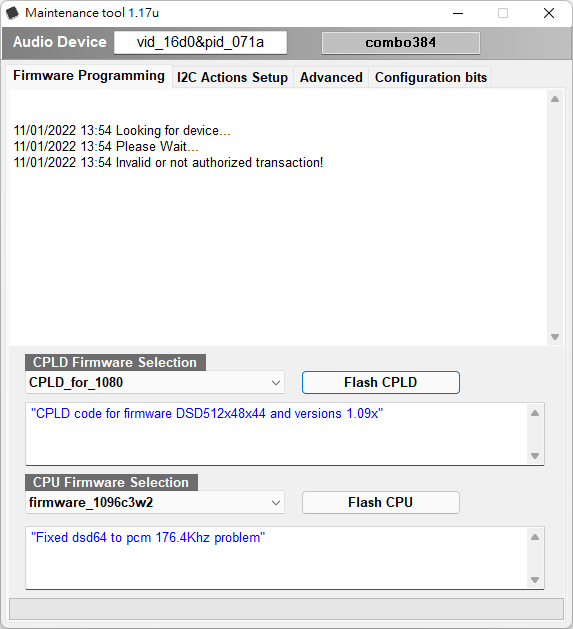
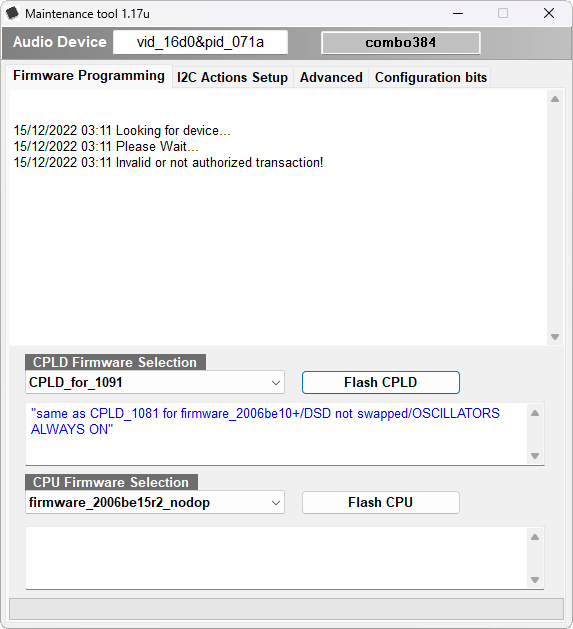
Net.6 rebuild

diff --git a/Program.cs b/Program.cs
@@ -1,7 +1,9 @@
-using ProcessMemoryScanner;
+using ProcessMemoryUtilities.Managed;
+using ProcessMemoryUtilities.Native;
 using System;
 using System.Diagnostics;
 using System.IO;
+using System.Linq;
 
 namespace AmaneroOemToolBypass
 {
@@ -15,47 +17,53 @@ namespace AmaneroOemToolBypass
              * patch: EB 19 8B 85 78 FF FF FF BA
              */
 
-            var targetFile = "ConfigTool.exe";
+            var targetExe = "ConfigTool.exe";
             var targetBytes = new byte[] { 0x74, 0x19, 0x8B, 0x85, 0x78, 0xFF, 0xFF, 0xFF, 0xBA };
+            var patchBytes = new byte[] { 0xEB };
 
-            if (!File.Exists(targetFile))
+            if (!File.Exists(targetExe))
             {
-                Console.WriteLine($"{targetFile} not found!");
+                Console.WriteLine($"{targetExe} not found!");
                 Console.ReadKey();
-                Environment.Exit(0);
+                return;
             }
 
-            var oemtool = Process.Start(targetFile);
+            var oemtool = Process.Start(targetExe);
+            var baseAddress = oemtool.MainModule.BaseAddress;
+            var matchAddress = IntPtr.Zero;
 
-            var memory = new MemoryScanner(p => p.Id == oemtool.Id);
-            var memoryRegions = memory.FindMemoryRegion(p => p.RegionSize.ToInt64() > 0);
+            var buffer = new byte[2 * 1024 * 1024];
 
-            memory.SuspendProcess();
+            var handle = NativeWrapper.OpenProcess(ProcessAccessFlags.Read, oemtool.Id);
+            NativeWrapper.ReadProcessMemoryArray(handle, baseAddress, buffer);
+            NativeWrapper.CloseHandle(handle);
 
-            var offset = IntPtr.Zero;
-            foreach (var region in memoryRegions)
+            for (int i = 0; i < buffer.Length - targetBytes.Length; i++)
             {
-                if (region.RegionSize.ToInt64() > 0x10000000)
-                    continue;
-
-                offset = memory.FindByAoB(targetBytes, region);
-                if (offset != IntPtr.Zero)
+                var result = buffer.Take(i..(i + targetBytes.Length)).SequenceEqual(targetBytes);
+                if (result)
                 {
-                    memory.WriteMemory(offset, new byte[] { 0xEB });
-                    memory.ResumeProcess();
-                    Console.WriteLine("Patch done!");
-                    break; //only one section need patch
+                    matchAddress = baseAddress + i;
+                    break;
                 }
             }
 
-            if (offset == IntPtr.Zero)
+            if (matchAddress == IntPtr.Zero)
             {
                 oemtool.Kill();
-                Console.WriteLine("AOB scan no result!");
+                Console.WriteLine("nothing to do...");
+                Console.ReadKey();
+                return;
             }
 
+            handle = NativeWrapper.OpenProcess(ProcessAccessFlags.ReadWrite, oemtool.Id);
+            NativeWrapper.VirtualProtectEx(handle, matchAddress, (IntPtr)patchBytes.Length, MemoryProtectionFlags.ExecuteReadWrite, out var oldProtect);
+            NativeWrapper.WriteProcessMemoryArray(handle, matchAddress, patchBytes);
+            NativeWrapper.VirtualProtectEx(handle, matchAddress, (IntPtr)patchBytes.Length, oldProtect, out _);
+            NativeWrapper.CloseHandle(handle);
+
+            Console.WriteLine("patch done!");
             Console.ReadKey();
-            Environment.Exit(0);
         }
     }
 }

diff --git a/README.md b/README.md
@@ -1,6 +1,9 @@
 # AmaneroOemToolBypass
 
-Amanero official firmware tool can't be use on third party Combo384 USB card.
+Amanero official firmware tool can't be use on cloned Combo384 USB card.
+
+![board-front](https://github.com/sabpprook/AmaneroOemToolBypass/blob/main/pics/board-front.png)
+![board-back](https://github.com/sabpprook/AmaneroOemToolBypass/blob/main/pics/board-back.png)
 
 If trying update firmware will show the message below.
 
@@ -8,9 +11,10 @@ If trying update firmware will show the message below.
 
 ![sshot-0001](https://github.com/sabpprook/AmaneroOemToolBypass/blob/main/pics/sshot-0001.png)
 
-The loader will patch **ConfigTool.exe** to make firmware flashing allowed.
+The loader will patch **ConfigTool.exe** to make firmware flashing is allowed.
 * **[AmaneroOemToolBypass.exe](https://github.com/sabpprook/AmaneroOemToolBypass/releases/latest/download/AmaneroOemToolBypass.exe)**
-*(SHA256: d8474114e0dfba252da9edc7acda4697c73d18d4752abbf9f5143545b29d9207)*
+
+Please install .NET 6.0 Desktop Runtime ([x86](https://dotnet.microsoft.com/en-us/download/dotnet/6.0)) first.
 
 ***
 
@@ -23,5 +27,8 @@ The loader will patch **ConfigTool.exe** to make firmware flashing allowed.
 * **ES9028PRO** **ES9038PRO**
     + CPLD_for_1080 + firmware_1099c
     + CPLD_1080_DSDSWAPPED + firmware_1099c
+
+* **2022 New Firmware**
+    + CPLD_for_1091 + firmware_2006be15r2_nodop
 
 ![sshot-0002](https://github.com/sabpprook/AmaneroOemToolBypass/blob/main/pics/sshot-0002.png)
